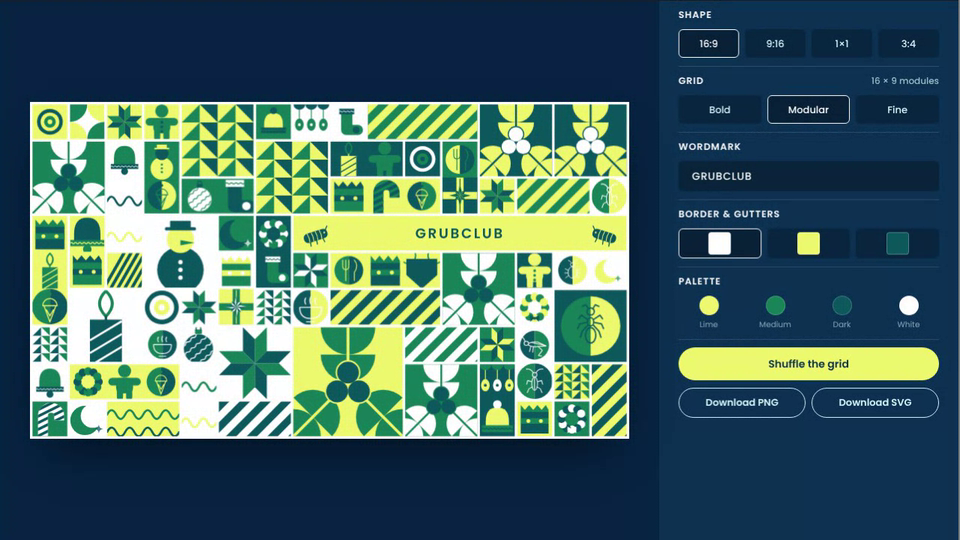
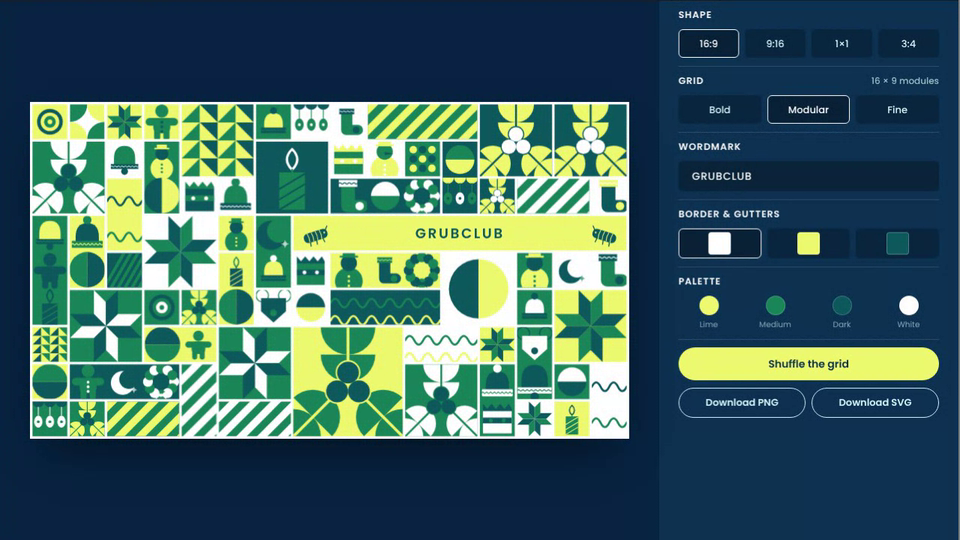
Grubclub Holiday Grid: line-art circles replaced with plain split circles in varied colour pairs
Claude-Session: https://claude.ai/code/session_01AHeBdyRCcuLFjvrTGpsW3f

Changed region(s): [[0.0312, 0.237, 0.6562, 0.8296]]

diff --git a/grubclub-holiday/index.html b/grubclub-holiday/index.html
@@ -126,8 +126,6 @@ const poly = (pts, fill) => `<polygon points="${pts.map((p) => p.map(f).join(','
 /* faceted star built from kites: long points N/E/S/W, short points on the diagonals, each point split into two tones */
 const star8 = (cx, cy, R, c1, c2, longK = 1, shortK = .74) => { let s = ''; for (let i = 0; i < 8; i++) { const an = (i * 45 - 90) * Math.PI / 180, ln = R * (i % 2 ? shortK : longK), vr = R * .4, a1 = an - Math.PI / 8, a2 = an + Math.PI / 8; const P = (a, r) => [cx + Math.cos(a) * r, cy + Math.sin(a) * r]; s += poly([[cx, cy], P(a1, vr), P(an, ln)], c1) + poly([[cx, cy], P(an, ln), P(a2, vr)], c2); } return s; };
 const splitCircle = (k, r = 46) => halfL(50, 50, r, k.a) + halfR(50, 50, r, k.b);
-const glyph = (k, d, sc = 1.1) => `<g transform="translate(50 50) scale(${sc}) translate(-50 -50)">${line(d, k.bg, 2.5)}</g>`;
-const ell = (cx, cy, rx, ry) => `M${cx - rx} ${cy} A${rx} ${ry} 0 1 1 ${cx + rx} ${cy} A${rx} ${ry} 0 1 1 ${cx - rx} ${cy}Z`;
 
 const ICON = {
   /* thin cap and loop, big round bauble, split tone or wavy diagonal lines */
@@ -171,18 +169,8 @@ const ICON = {
   holly: (k) => { const lv = '<path d="M25 0 A25 25 0 0 0 75 0Z"/><path d="M25 25 A25 25 0 0 0 75 25Z"/>'; const off = 20.7 /* outer half-disc sits in the tile corner on the diagonals */;
     const motif = (d, o) => rot(d, 50, 50, `<g transform="translate(0 ${-o})"><g fill="${k.leaf}">${lv}</g><path d="M50 0 V${46 + o}" stroke="${k.bg}" stroke-width="2.6"/></g>`);
     const bs = [[50, 41.5], [40, 58.8], [60, 58.8]]; return motif(0, 0) + motif(135, off) + motif(225, off) + bs.map(([x, y]) => circ(x, y, 11.4, k.bg)).join('') + bs.map(([x, y]) => circ(x, y, 10, k.berry)).join(''); },
-  /* split circles with thin line-art food, like the burger / fries / shake / cone circles */
-  lineBowl: (k) => splitCircle(k) + glyph(k, 'M24 50 H76 Q76 76 50 76 Q24 76 24 50Z M38 42 Q34 35 38 28 M50 42 Q46 34 50 25 M62 42 Q58 35 62 28 M40 84 H60'),
-  lineCup: (k) => splitCircle(k) + glyph(k, 'M35 36 L38.5 77 Q39 80 42 80 H58 Q61 80 61.5 77 L65 36 M30 36 H70 M53 36 L57 14 H69 M37 53 Q43.5 46 50 53 T63 53'),
-  lineFork: (k) => splitCircle(k) + glyph(k, 'M32 20 V38 Q32 48 41 48 Q50 48 50 38 V20 M41 20 V80 M66 20 Q80 36 66 56 V80'),
-  lineCone: (k) => splitCircle(k) + glyph(k, 'M36 48 L50 86 L64 48Z M33 48 A17 17 0 1 1 67 48Z M42 58 L50 72 L58 58') + circ(50, 18, 4.2, k.x),
-  /* bugs, same split-circle line art: Grubclub's cricket, grasshopper and mealworm, plus a beetle and an ant */
-  lineCricket: (k) => splitCircle(k) + glyph(k, ell(50, 58, 9, 21) + ell(50, 30, 7, 7) + 'M50 40 V76 M46 24 Q38 10 24 12 M54 24 Q62 10 76 12 M41 52 L28 48 L25 60 M59 52 L72 48 L75 60 M43 68 L32 74 L27 86 M57 68 L68 74 L73 86', .82),
-  lineGrasshopper: (k) => splitCircle(k) + glyph(k, ell(24, 44, 7, 6.5) + 'M31 44 Q42 38 60 40 L86 52 L60 54 Q42 56 31 50Z M40 41 L80 50 M20 39 Q17 27 8 22 M38 54 L34 70 M46 55 L44 72 M60 53 L74 66 L62 82 L72 84', 1.02),
-  lineBeetle: (k) => splitCircle(k) + glyph(k, ell(50, 58, 17, 22) + ell(50, 28, 8, 7) + 'M50 36 V80 M46 22 Q42 14 34 12 M54 22 Q58 14 66 12 M34 50 L22 44 M33 60 L20 60 M35 70 L24 78 M66 50 L78 44 M67 60 L80 60 M65 70 L76 78', .85),
-  lineAnt: (k) => splitCircle(k) + glyph(k, ell(50, 22, 7, 7) + ell(50, 42, 6, 8) + ell(50, 68, 10, 15) + 'M46 17 L41 9 L34 12 M54 17 L59 9 L66 12 M45 38 L32 29 L27 36 M44 43 L29 46 L25 55 M45 48 L34 60 L30 72 M55 38 L68 29 L73 36 M56 43 L71 46 L75 55 M55 48 L66 60 L70 72', .8),
   /* abstract grid fillers */
-  halfdisc: (k) => splitCircle(k, 46),
+  halfdisc: (k, v) => rot(v ? 90 : 0, 50, 50, splitCircle(k, 46)),
   rings: (k) => circ(50, 50, 44, k.a) + circ(50, 50, 32, k.bg) + circ(50, 50, 20, k.b) + circ(50, 50, 8, k.bg),
   quarters: (k) => `<path d="M0 0 H50 A50 50 0 0 1 0 50Z" fill="${k.a}"/><path d="M100 0 V50 A50 50 0 0 1 50 0Z" fill="${k.b}"/><path d="M0 100 V50 A50 50 0 0 1 50 100Z" fill="${k.b}"/><path d="M100 100 H50 A50 50 0 0 1 100 50Z" fill="${k.a}"/>`,
   dots: (k) => { let s = ''; for (let i = 0; i < 3; i++) for (let j = 0; j < 3; j++) s += circ(18 + i * 32, 18 + j * 32, 13, (i + j) % 2 ? k.b : k.a); return s; },
@@ -190,9 +178,8 @@ const ICON = {
   stripesDiag: (k) => Array.from({ length: 9 }, (_, i) => `<path d="M${-20 + i * 20} 120 L${60 + i * 20} -20" stroke="${k.a}" stroke-width="9"/>`).join(''),
   wavyDiag: (k) => rot(-45, 50, 50, [-20, 0, 20, 40, 60, 80, 100, 120].map((y) => zig(-30, 130, y, 5, 8, k.a, 3.4)).join(''))
 };
-const LINES = ['lineBowl', 'lineCup', 'lineFork', 'lineCone', 'lineCricket', 'lineGrasshopper', 'lineBeetle', 'lineAnt'];
-/* 'line' stands for one of the split-circle line icons; the three exact geometric blocks are weighted up */
-const ICONS_FULL = ['ornament', 'reindeer', 'bell', 'hat', 'gift', 'cane', 'candle', 'stocking', 'elf', 'snowman', 'ginger', 'wreath', 'moon', 'scallop', 'pinwheel', 'pinwheel', 'pinwheel', 'holly', 'holly', 'holly', 'treeTri', 'treeTri', 'treeTri', 'line', 'line', 'line', 'line'];
+/* plain split circles (two half circles in varying colour pairs) and the three exact geometric blocks, weighted up */
+const ICONS_FULL = ['ornament', 'reindeer', 'bell', 'hat', 'gift', 'cane', 'candle', 'stocking', 'elf', 'snowman', 'ginger', 'wreath', 'moon', 'scallop', 'pinwheel', 'pinwheel', 'pinwheel', 'holly', 'holly', 'holly', 'treeTri', 'treeTri', 'treeTri', 'halfdisc', 'halfdisc', 'halfdisc', 'halfdisc'];
 const FILLERS = ['halfdisc', 'rings', 'quarters', 'dots', 'tris', 'stripesDiag', 'wavyDiag'];
 const BLEED = { tris: 1, quarters: 1, gift: 1, stripesDiag: 1, wavyDiag: 1, scallop: 1, elf: 1 };
 
@@ -280,7 +267,7 @@ function build(anim) {
   const cw = (W - gap * (cols + 1)) / cols, ch = (H - gap * (rows + 1)) / rows;
   const tiles = layout(cols, rows, r);
   let out = '', n = 0, last = '';
-  const nextIcon = (geo = true) => { let name, tries = 0; do { name = pick(r, ICONS_FULL); if (name === 'line') name = pick(r, LINES); tries++; } while ((name === last || usedRecent.slice(-3).includes(name) || (!geo && GEO[name])) && tries < 40); last = name; usedRecent.push(name); return name; };
+  const nextIcon = (geo = true) => { let name, tries = 0; do { name = pick(r, ICONS_FULL); tries++; } while ((name === last || usedRecent.slice(-3).includes(name) || (!geo && GEO[name])) && tries < 40); last = name; usedRecent.push(name); return name; };
   usedRecent = [];
   /* about half of the illustrations run tight to the tile edges (zoomed in, bleeding off), the rest keep a margin */
   const iconSvg = (name, k, x, y, w, h, pad) => { const sl = BLEED[name], tight = !sl && !GEO[name] && r() < .5; const p = sl || tight ? 0 : pad; const vb = tight ? '5 5 90 90' : '0 0 100 100'; return `<svg x="${f(x + p)}" y="${f(y + p)}" width="${f(w - p * 2)}" height="${f(h - p * 2)}" viewBox="${vb}" preserveAspectRatio="${sl ? 'xMidYMid slice' : 'xMidYMid meet'}" overflow="${sl || tight ? 'hidden' : 'visible'}">${ICON[name](k, r() < .5 ? 1 : 0)}</svg>`; };
